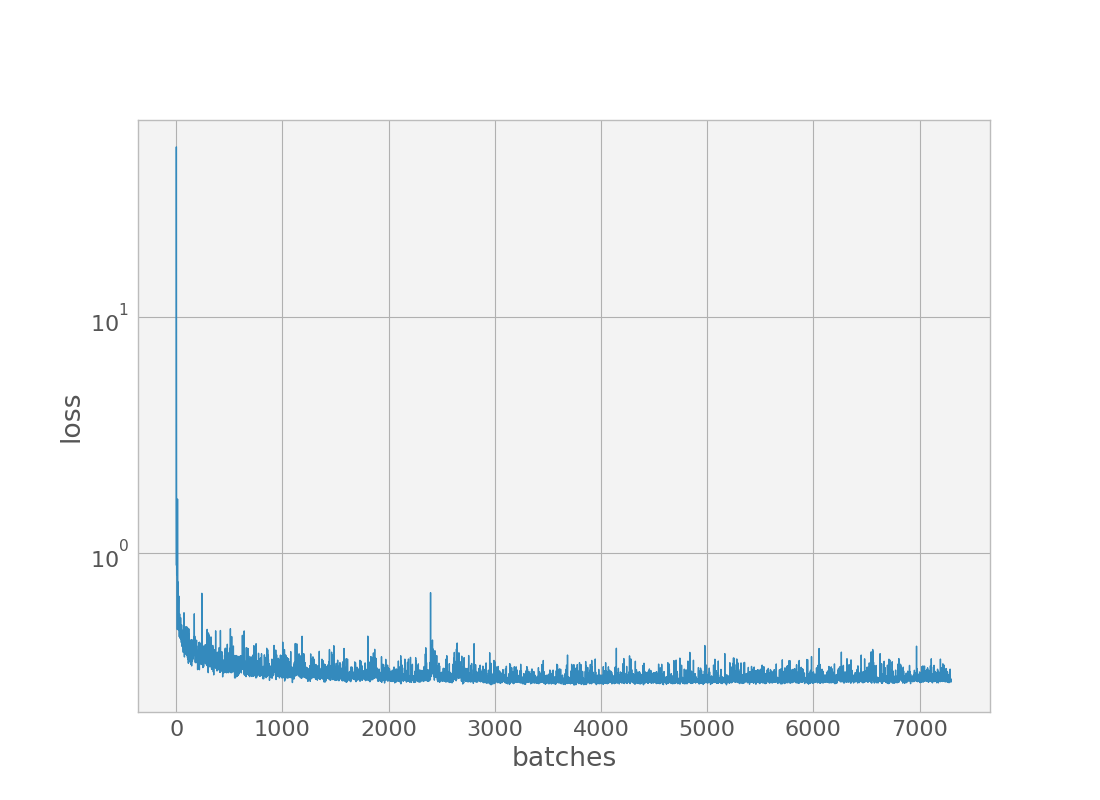
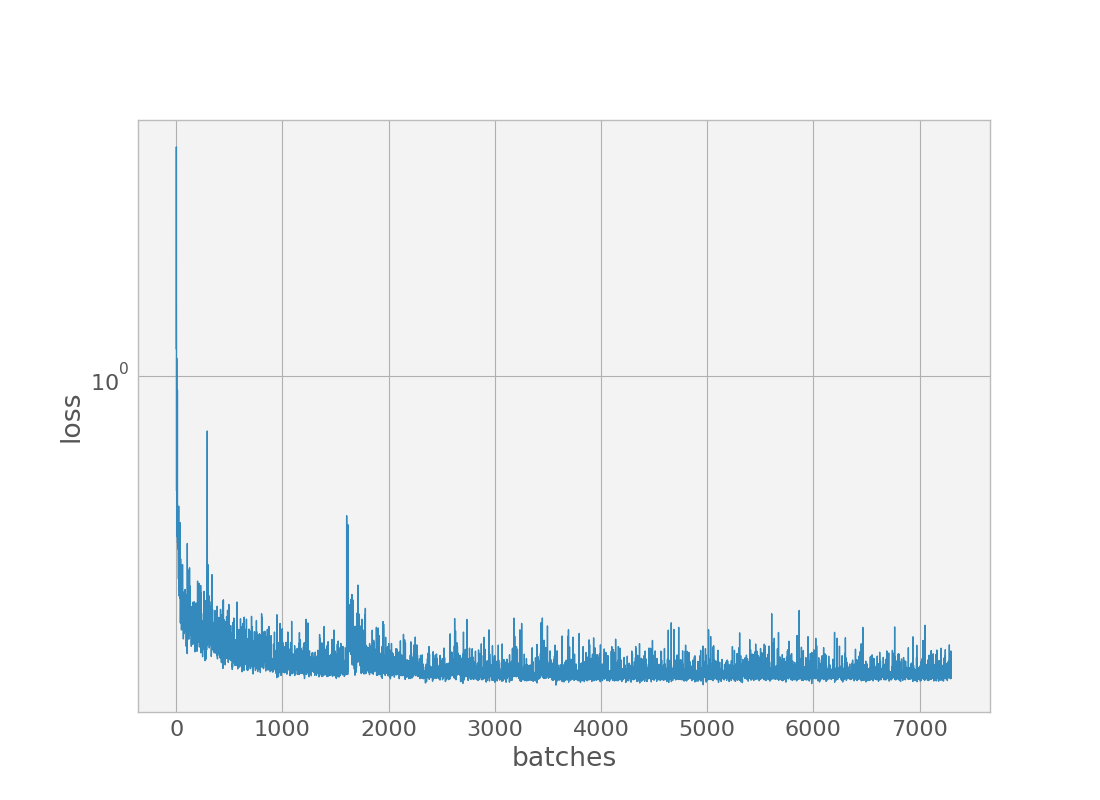
Larger LR; smaller (stronger) decay

diff --git a/main.py b/main.py
@@ -4,6 +4,8 @@ import warnings
 import os.path, os, sys, time
 
 L2 = 5e-2
+init_lr = 2e-4
+decay = .97
 
 # Suppress unneeded tf logging.
 os.environ['TF_CPP_MIN_LOG_LEVEL'] = '3' 
@@ -394,7 +396,7 @@ def run():
             epochs=50, batch_size=4, get_batches_fn=get_batches_fn, 
             train_op=[train_op_incl_vgg16, train_op], cross_entropy_loss=cross_entropy_loss, input_image=input_image,
             correct_label=correct_label, keep_prob=keep_prob, learning_rate=learning_rate,
-            learning_rate_value=5e-4, decay_factor=.98,
+            learning_rate_value=init_lr, decay_factor=decay,
         ))
 
         # Save inferences
